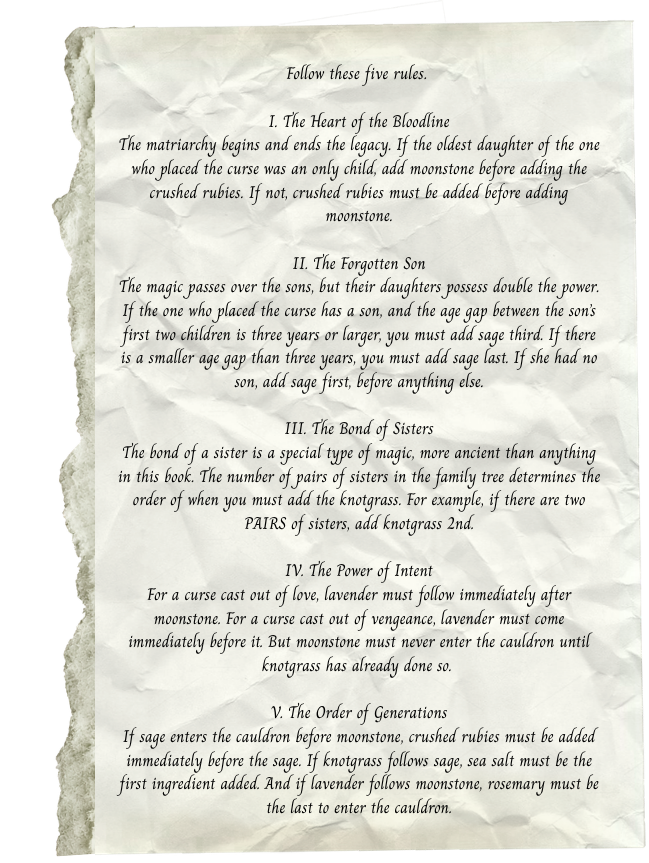
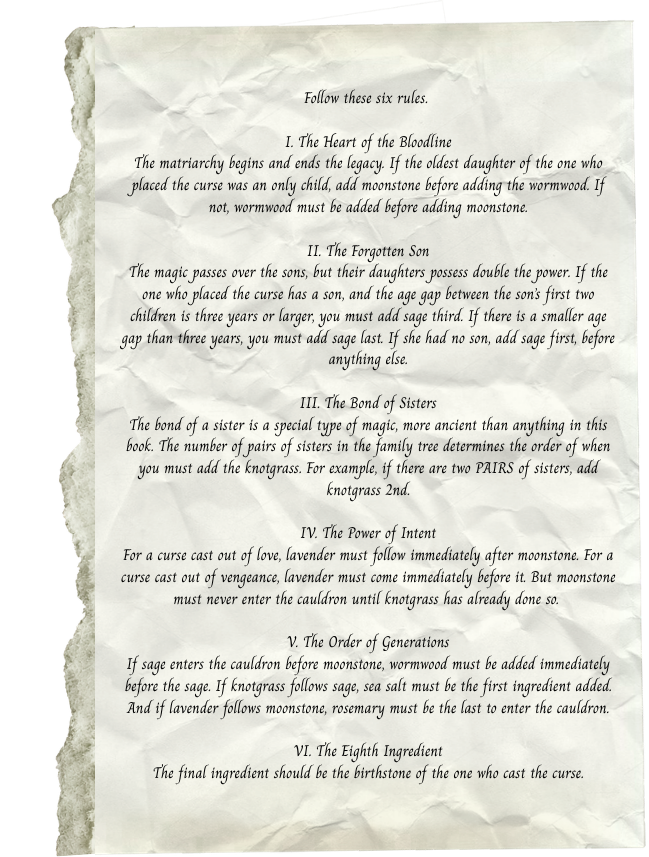
Adding birthstones

Changed region(s): [[0.0616, 0.0607, 0.9553, 1.0], [0.0924, 0.3337, 0.1233, 0.3944]]

diff --git a/potion.js b/potion.js
@@ -2,17 +2,30 @@ const ingredients = [
   { id: 'lavender', name: 'Lavender', image: 'lavander.png' },
   { id: 'moonstone', name: 'Moonstone', image: 'moonstone.png' },
   { id: 'rosemary', name: 'Rosemary', image: 'rosemary.png' },
-  { id: 'rubies', name: 'Crushed rubies', image: 'rubies.png' },
+  { id: 'wormwood', name: 'Wormwood', image: 'wormwood.png' },
   { id: 'sage', name: 'Sage', image: 'sage.png' },
   { id: 'salt', name: 'Sea salt', image: 'salt.png' },
   { id: 'knotgrass', name: 'Knotgrass', image: 'knotgrass.png' },
 ];
 
-// Change this sequence to update the puzzle's recipe.
-const recipe = ['salt', 'rubies', 'sage', 'knotgrass', 'moonstone', 'lavender', 'rosemary'];
+const birthstones = [
+  ['january', 'Garnet'], ['february', 'Amethyst'], ['march', 'Aquamarine'],
+  ['april', 'Diamond'], ['may', 'Emerald'], ['june', 'Alexandrite'],
+  ['july', 'Ruby'], ['august', 'Peridot'], ['september', 'Sapphire'],
+  ['october', 'Tourmaline'], ['november', 'Topaz'], ['december', 'Zircon'],
+].map(([month, stone]) => ({
+  id: month,
+  stone,
+  label: `${month[0].toUpperCase()}${month.slice(1)}`,
+  name: `${month[0].toUpperCase()}${month.slice(1)} birthstone (${stone})`,
+  image: `${month}.png`,
+}));
+
+// The curser's birthstone must be the eighth and final ingredient.
+const recipe = ['salt', 'wormwood', 'sage', 'knotgrass', 'moonstone', 'lavender', 'rosemary', 'july'];
 const dialog = document.getElementById('potionDialog');
 const cauldron = document.getElementById('cauldronArt');
-const shelf = document.getElementById('ingredientGrid');
+const shelf = document.getElementById('ingredientShelf');
 const brewButton = document.getElementById('brewPotion');
 const brewingView = document.getElementById('brewingView');
 const resultView = document.getElementById('potionResult');
@@ -26,21 +39,37 @@ let brewTimer = null;
 let added = [];
 let brewResult = null;
 
-for (const ingredient of ingredients) {
-  const button = document.createElement('button');
-  button.className = 'ingredient';
-  button.type = 'button';
-  button.dataset.ingredient = ingredient.id;
-  button.setAttribute('aria-label', `Add ${ingredient.name.toLowerCase()} to the cauldron`);
-  const image = document.createElement('img');
-  image.src = `assets/potionassets/${ingredient.image}`;
-  image.alt = '';
-  const label = document.createElement('span');
-  label.textContent = ingredient.name;
-  button.append(image, label);
-  button.addEventListener('click', () => addIngredient(ingredient));
-  shelf.append(button);
+function renderIngredients(items, grid, cropBirthstones = false) {
+  for (const ingredient of items) {
+    const button = document.createElement('button');
+    button.className = 'ingredient';
+    button.type = 'button';
+    button.dataset.ingredient = ingredient.id;
+    button.setAttribute('aria-label', `Add ${ingredient.name.toLowerCase()} to the cauldron`);
+    const image = document.createElement('img');
+    image.src = `assets/potionassets/${ingredient.image}`;
+    image.alt = '';
+    const label = document.createElement('span');
+    label.textContent = ingredient.label || ingredient.name;
+    if (cropBirthstones) {
+      const stoneLabel = document.createElement('span');
+      stoneLabel.textContent = ingredient.stone;
+      button.append(stoneLabel);
+      const crop = document.createElement('div');
+      crop.className = 'birthstone-crop';
+      crop.append(image);
+      button.append(crop);
+    } else {
+      button.append(image);
+    }
+    button.append(label);
+    button.addEventListener('click', () => addIngredient(ingredient));
+    grid.append(button);
+  }
 }
+
+renderIngredients(ingredients, document.getElementById('ingredientGrid'));
+renderIngredients(birthstones, document.getElementById('birthstoneGrid'), true);
 
 function renderBrew() {
   const complete = brewResult === 'success';
@@ -48,7 +77,7 @@ function renderBrew() {
   resetButton.disabled = phase === 'brewing';
   brewButton.disabled = added.length !== recipe.length || brewResult !== null;
   for (const button of shelf.querySelectorAll('button')) {
-    button.disabled = phase !== 'mixing' || complete || added.includes(button.dataset.ingredient);
+    button.disabled = phase !== 'mixing' || complete || added.length === recipe.length || added.includes(button.dataset.ingredient);
   }
 }
 

diff --git a/potion.css b/potion.css
@@ -33,8 +33,13 @@ h2 { font-weight: normal; font-size: clamp(25px, 4vw, 36px); margin: 8px 0; }
 .brew-button:disabled { opacity: .45; cursor: default; }
 h3 { font-size: 19px; font-weight: normal; margin: 0 0 14px; }
 .ingredient-grid { display: grid; grid-template-columns: repeat(3, minmax(0, 1fr)); gap: 12px; }
+.birthstone-shelf { margin-top: 24px; }
 .ingredient { display: flex; flex-direction: column; align-items: center; justify-content: space-between; gap: 10px; min-width: 0; padding: 12px 6px; border: 0; background: transparent; color: #3a4030; font-size: 20px; transition: transform .2s; }
 .ingredient img { width: 100%; height: 85px; object-fit: contain; }
+.birthstone-shelf .ingredient-grid { grid-template-columns: repeat(4, minmax(0, 1fr)); gap: 4px; }
+.birthstone-shelf .ingredient { padding: 4px 2px; gap: 4px; font-size: 16px; }
+.birthstone-crop { width: 100%; height: 54px; overflow: hidden; }
+.birthstone-shelf .birthstone-crop img { display: block; width: 100%; height: 110px; margin-top: -30px; object-fit: contain; }
 .ingredient:hover:enabled { transform: translateY(-3px); }
 .ingredient:disabled { opacity: .45; cursor: default; }
 .ingredient:disabled img { filter: grayscale(1); }

diff --git a/potion.html b/potion.html
@@ -31,10 +31,16 @@
           <button class="brew-button" id="brewPotion" disabled>BREW</button>
           <button class="reset-button" id="resetPotion">RESET</button>
         </section>
-        <section class="ingredient-shelf" aria-labelledby="ingredientsTitle">
-          <h3 id="ingredientsTitle">Ingredients</h3>
-          <div class="ingredient-grid" id="ingredientGrid"></div>
-        </section>
+        <div class="ingredient-shelf" id="ingredientShelf">
+          <section aria-labelledby="ingredientsTitle">
+            <h3 id="ingredientsTitle">Core Ingredients</h3>
+            <div class="ingredient-grid" id="ingredientGrid"></div>
+          </section>
+          <section class="birthstone-shelf" aria-labelledby="birthstonesTitle">
+            <h3 id="birthstonesTitle">Birth Stones</h3>
+            <div class="ingredient-grid" id="birthstoneGrid"></div>
+          </section>
+        </div>
       </div>
       <section class="result-view" id="potionResult" aria-label="Your brewed potion" hidden>
         <img id="potionImage" class="result-image" alt="A freshly brewed potion">
